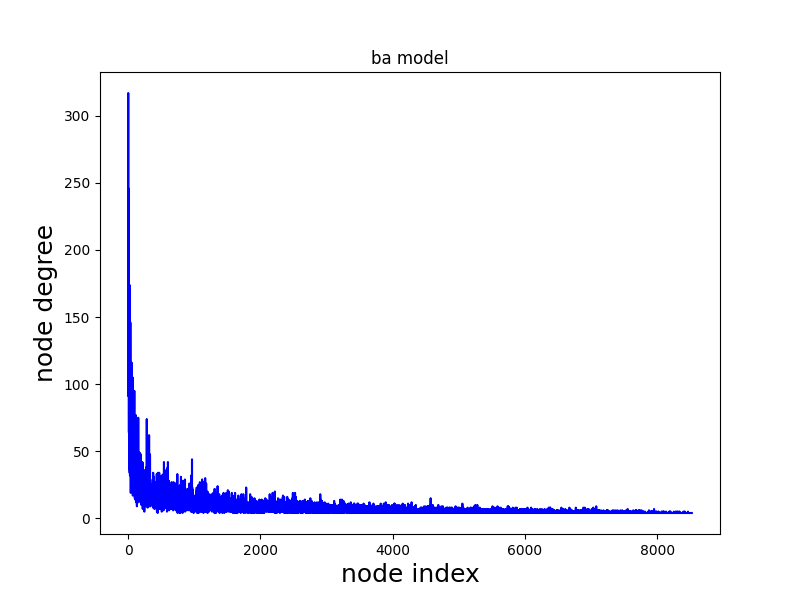
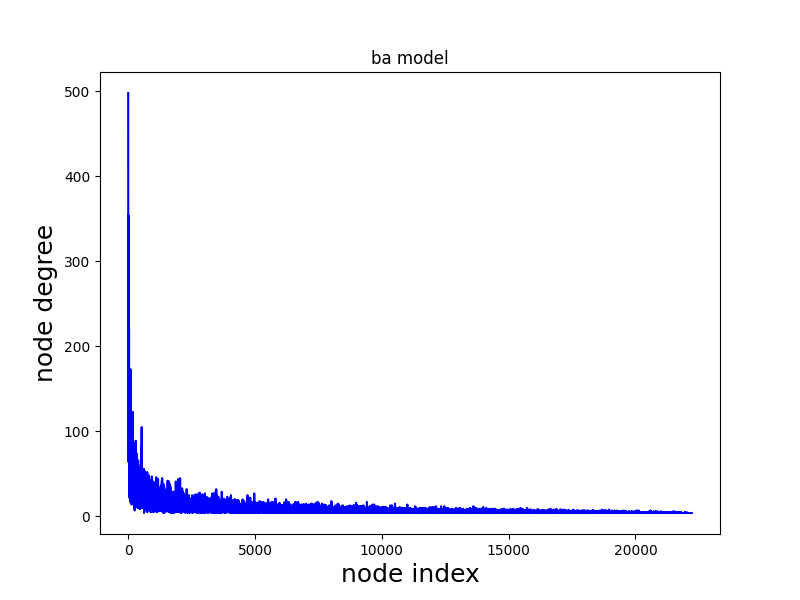
3 2

diff --git a/Networks3/ba.py b/Networks3/ba.py
@@ -1,25 +1,38 @@
+import math
 from matplotlib import pyplot as plt
 import numpy as np
 
 class Node:
     def __init__(self):
-        self.connections: list[Node] = []
+        self.neighbors: list[Node] = []
 
-    def add_connection(self, node: 'Node'):
-        self.connections.append(node)
+    def add_neighbor(self, neighbor: 'Node'):
+        self.neighbors.append(neighbor)
 
 
-def main():
-    counter: int = 0
-
-    kernel_size: int = 4
-
+def run_ba_model(size: int, kernel_size: int):
     list_nodes: list[Node] = create_kernel(kernel_size)
 
-    for step in range(1, 8520):
+    for step in range(1, size):
         new_node: Node = Node()
 
         list_indices: list[int] = [index for index in range(len(list_nodes))]
+
+        max_k: int = 0
+        min_k: int = 0
+
+        for i in range(len(list_nodes)):
+            node: Node = list_nodes[i]
+
+            k_i: int = len(node.neighbors)
+
+            max_k = max(max_k, k_i)
+            min_k = k_i if min_k == 0 else min(min_k, k_i)
+
+        ratio: float = max_k / min_k if min_k > 0 else 0.0
+        square_root_size: float = math.sqrt(len(list_nodes))
+    
+        print(f"size={len(list_nodes)}, ratio={ratio}, sqrt_size={square_root_size}")
 
         probabilities = prepare_probabilities(list_nodes, kernel_size, step)
 
@@ -28,25 +41,37 @@ def main():
         for index in selected_indices:
             node: Node = list_nodes[index]
 
-            node.add_connection(new_node)
-            new_node.add_connection(node)
+            node.add_neighbor(new_node)
+            new_node.add_neighbor(node)
 
         list_nodes.append(new_node)
 
-        list_degrees: list[str] = [str(len(node.connections)) for node in list_nodes]
-
-        print(f"Step: {step}, nodes: {len(list_nodes)}")
-
-    
+        if len(list_nodes) == 54:
+            _ = 0    
 
     node_indices: list[int] = [0] * len(list_nodes)
     ks: list[int] = [0] * len(list_nodes)
 
+    max_k: int = 0
+    min_k: int = 0
+
     for i in range(len(list_nodes)):
         node: Node = list_nodes[i]
 
+        k_i: int = len(node.neighbors)
+
+        max_k = max(max_k, k_i)
+        min_k = k_i if min_k == 0 else min(min_k, k_i)
+
         node_indices[i] = i
-        ks[i] = len(node.connections)
+        ks[i] = k_i
+
+    ratio: float = max_k / min_k if min_k > 0 else 0.0
+    square_root_size: float = math.sqrt(len(list_nodes))
+    
+    print(f"size={len(list_nodes)}, ratio={ratio}, sqrt_size={square_root_size}")
+
+    print(f"max_k={max_k}, min_k={min_k}")
 
     plt.figure(figsize=(8, 6))
 
@@ -65,13 +90,13 @@ def prepare_probabilities(list_nodes: list[Node], kernel_size: int, step: int) -
     links_count: int = 0#2 * kernel_size * step
 
     for node in list_nodes:
-        links_count += len(node.connections)
+        links_count += len(node.neighbors)
 
     probabilities: list[float] = [0.0] * len(list_nodes)
 
     for i in range(len(list_nodes)):
         node: Node = list_nodes[i]
-        probabilities[i] = len(node.connections) / links_count
+        probabilities[i] = len(node.neighbors) / links_count
 
     return probabilities
 
@@ -86,9 +111,9 @@ def create_kernel(kernel_size: int) -> list[list[Node]]:
             node_i: Node = list_of_nodes[i]
             node_j: Node = list_of_nodes[j]
 
-            node_i.add_connection(node_j)
-            node_j.add_connection(node_i)
+            node_i.add_neighbor(node_j)
+            node_j.add_neighbor(node_i)
 
     return list_of_nodes
 
-main()
+run_ba_model(22220, 4)
